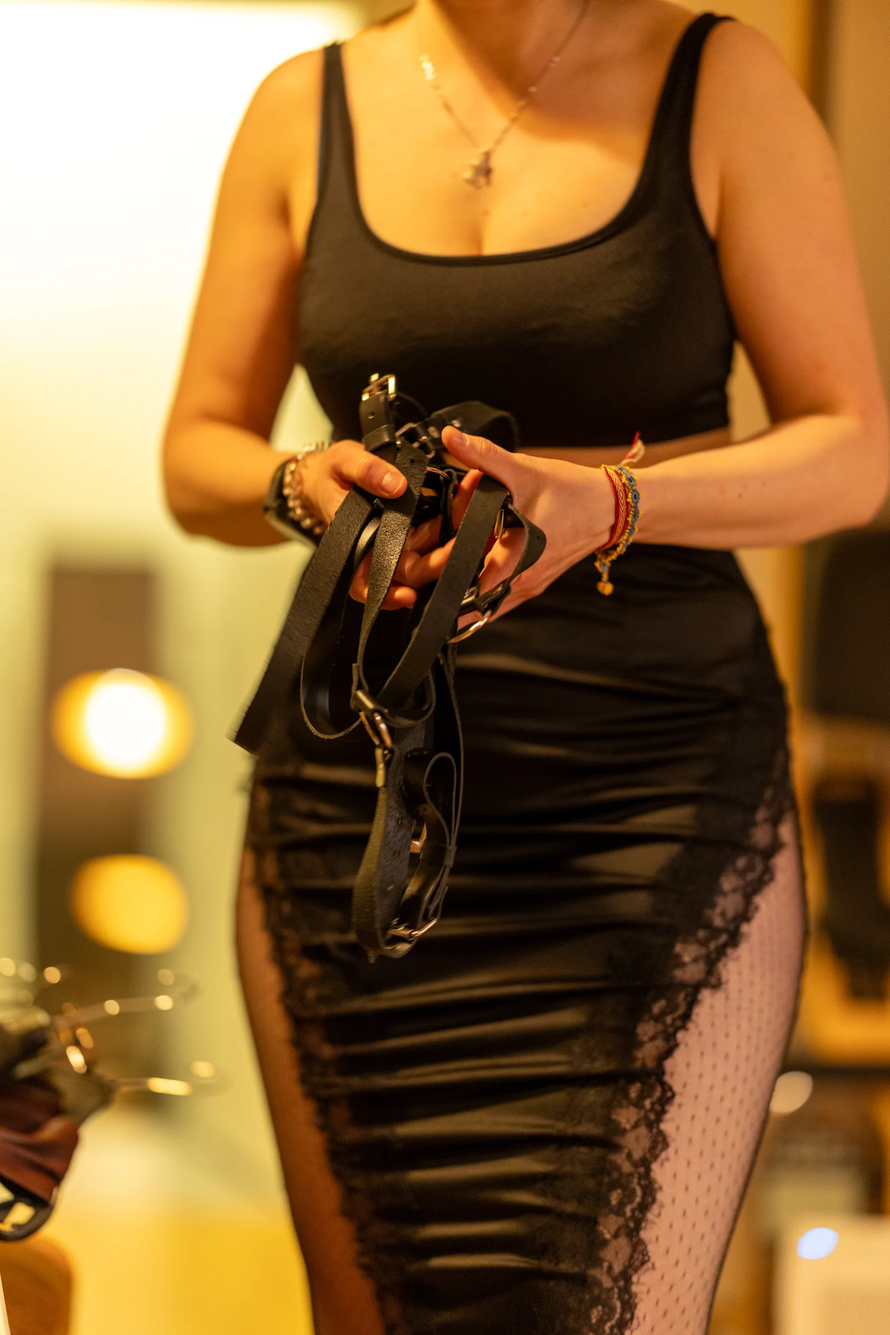
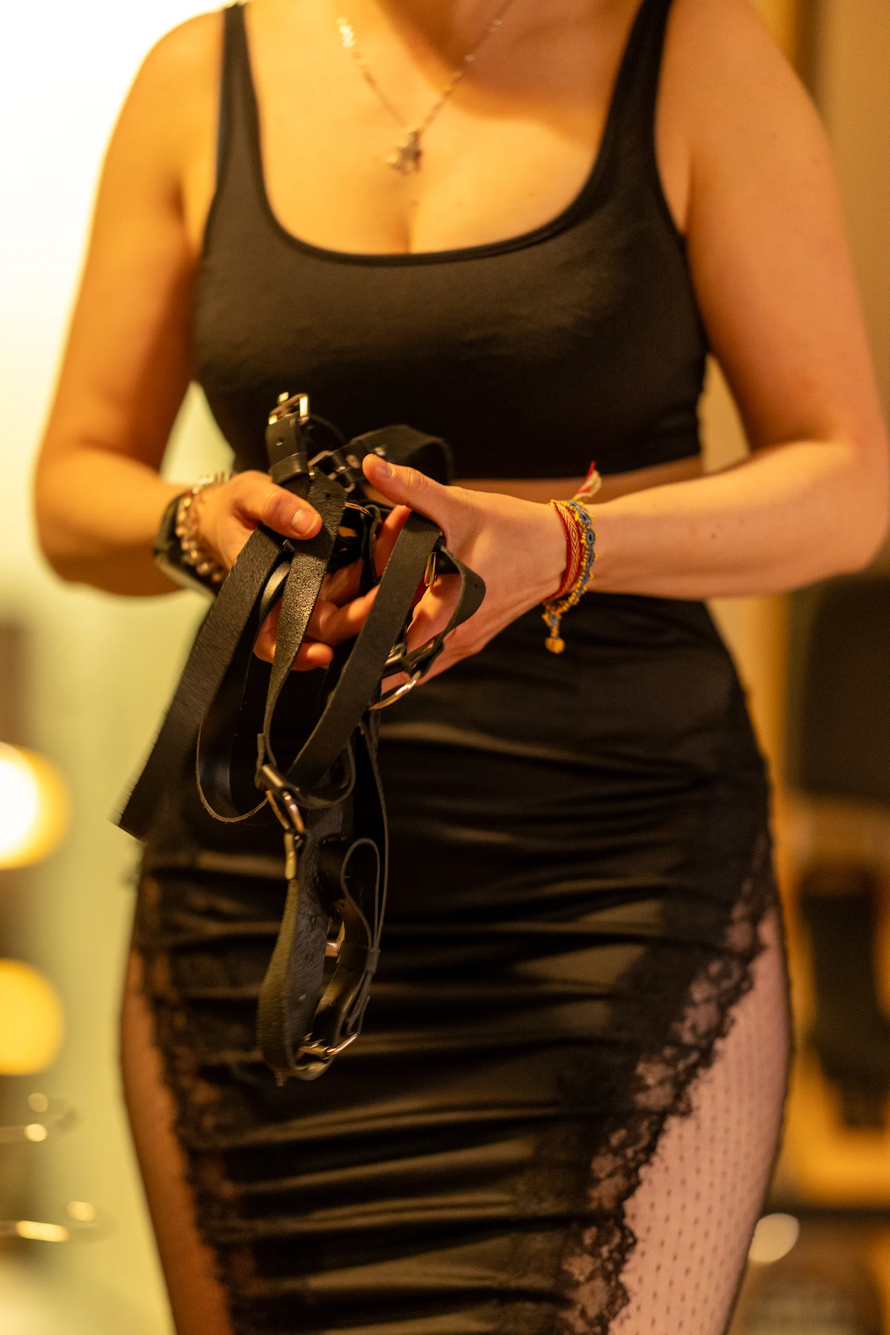
Olya: rename, new cover, drop 4 photos, tighter crop on first
Claude-Session: https://claude.ai/code/session_012r8GVhapw26SBiUZdqo44p

diff --git a/src/constants/projects.ts b/src/constants/projects.ts
@@ -300,8 +300,8 @@ const schmithGallery: string[] = [
   '/photos/schmith/schmith-17/preview.webp',
 ];
 
-const bergheinCover = '/photos/berghein/berghein-01/preview.webp';
-const bergheinHero = '/photos/berghein/berghein-01/large.webp';
+const bergheinCover = '/photos/berghein/berghein-14/preview.webp';
+const bergheinHero = '/photos/berghein/berghein-14/large.webp';
 const bergheinGallery: string[] = [
   '/photos/berghein/berghein-01/preview.webp',
   '/photos/berghein/berghein-02/preview.webp',
@@ -310,12 +310,8 @@ const bergheinGallery: string[] = [
   '/photos/berghein/berghein-05/preview.webp',
   '/photos/berghein/berghein-06/preview.webp',
   '/photos/berghein/berghein-07/preview.webp',
-  '/photos/berghein/berghein-08/preview.webp',
-  '/photos/berghein/berghein-09/preview.webp',
-  '/photos/berghein/berghein-10/preview.webp',
   '/photos/berghein/berghein-11/preview.webp',
   '/photos/berghein/berghein-12/preview.webp',
-  '/photos/berghein/berghein-13/preview.webp',
   '/photos/berghein/berghein-14/preview.webp',
   '/photos/berghein/berghein-15/preview.webp',
   '/photos/berghein/berghein-16/preview.webp',
@@ -391,7 +387,7 @@ export const projects: Project[] = [
     hero: schmithHero, heroOrientation: 'portrait', image: schmithCover, gallery: schmithGallery, nextId: 'berghein'
   },
   {
-    id: 'berghein', title: 'Olya Berghein', category: 'Portrait', year: '2026', description: '',
+    id: 'berghein', title: 'Olya', category: 'Portrait', year: '2026', description: '',
     hero: bergheinHero, heroOrientation: 'portrait', image: bergheinCover, gallery: bergheinGallery, nextId: 'misha'
   },
   {
